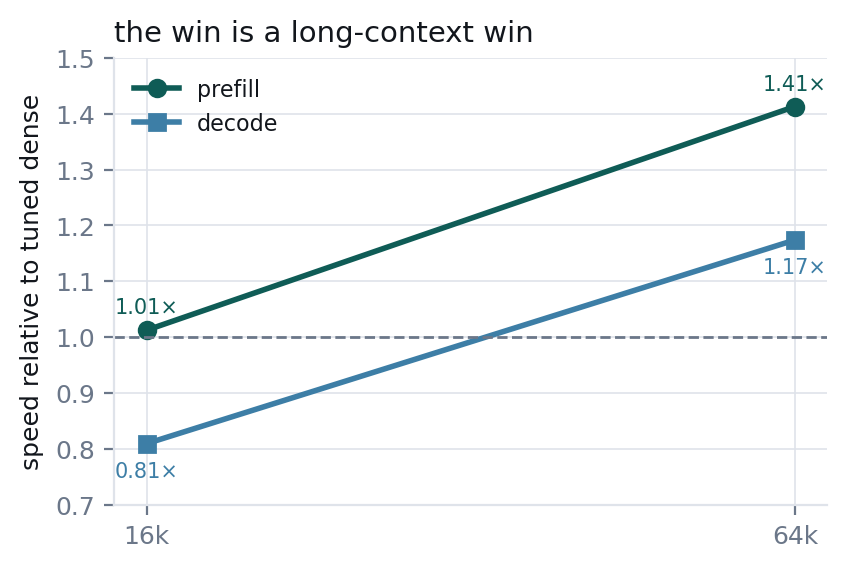
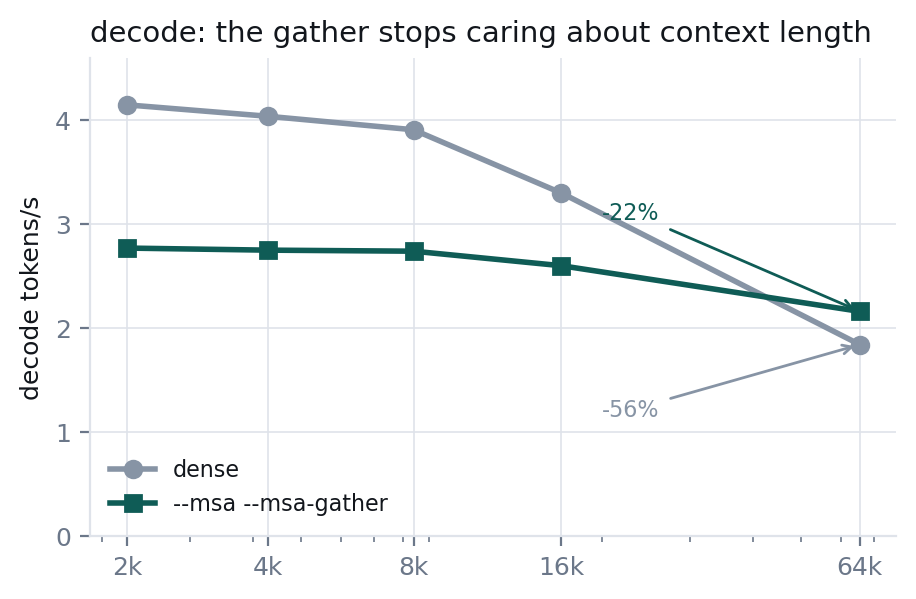
docs : redraw the context chart from five measured points
It plotted two ratios at two contexts, which is the framing the measurements no
longer support. It now plots both decode curves across 2k / 4k / 8k / 16k / 64k
so the shape is visible: the gather is nearly flat and dense is not. The -22%
and -56% falls across that range are the claim.

diff --git a/docs/msa/README.md b/docs/msa/README.md
@@ -105,7 +105,7 @@ this branch has nothing to offer you.
 
 ### The advantage is a long-context advantage
 
-![advantage vs context](advantage-vs-context.png)
+![decode vs context](advantage-vs-context.png)
 
 At 16k the prefill gain is 1.01x — that is inside the ±1.1% noise floor, so the honest statement is
 that there is **no measurable prefill difference at 16k**. Decode is **0.81x**, which is well
